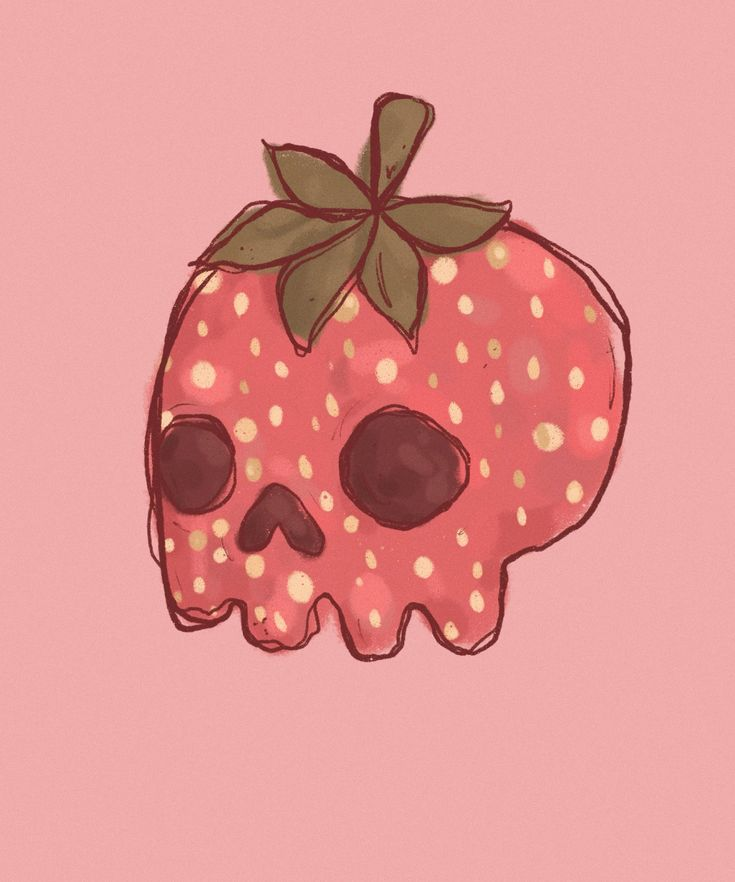
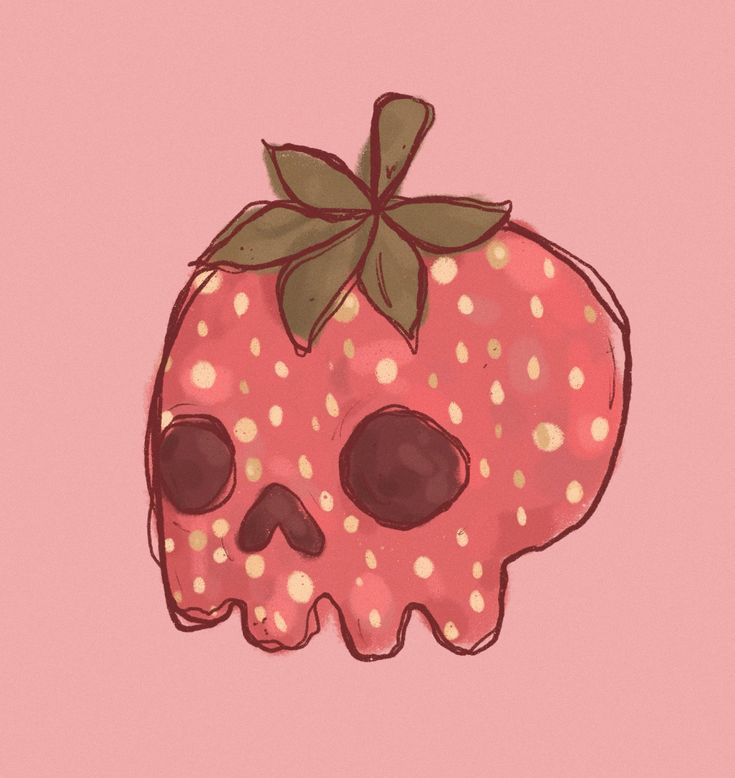
home page: main intro section + main links section

Changed region(s): [[0.1796, 0.0925, 0.868, 0.8638]]

diff --git a/style.css b/style.css
@@ -50,3 +50,72 @@ nav .nav-list a.active {
     padding: 0.5rem 1.5rem;
     border-radius: 0.5rem;
 }
+
+
+main {
+    width: 65%;
+/*👉    background-color: cornflowerblue;👈*/
+    display: flex;
+    flex-direction: column;
+    align-items: center;
+}
+
+main #intro {
+    width: 100%;
+    display: flex;
+    align-items: center;
+    justify-content: space-evenly;
+}
+
+#intro .profile {
+    height: 20rem;
+    width: 20rem;
+    border-radius: 50%;
+    overflow: hidden;
+}
+
+#intro .profile img {
+    width: 100%;
+    height: 100%;
+}
+
+#intro .intro-text {
+    width: 60%;
+}
+
+#intro .intro-text h1 {
+    font-size: 4.5rem;
+}
+
+#intro .intro-text .name {
+    color: #ff8597;
+}
+
+#intro .intro-text p {
+    font-size: 2rem;
+    text-transform: uppercase;
+    letter-spacing: 4px;
+    /* color: #a3c3ff; */
+}
+
+#intro .intro-text .tech {
+    color: #84acf7;
+    font-weight: 600;
+}
+
+
+main #links {
+    width: 60%;
+    margin-top: 2rem;
+    background-color: #84acf7;
+    padding: 1rem 5rem;
+    border-radius: 2rem;
+}
+
+#links .link-list {
+    display: flex;
+    list-style-type: none;
+    justify-content: space-between;
+    text-transform: uppercase;
+    letter-spacing: 2px;
+}

diff --git a/index.html b/index.html
@@ -26,13 +26,13 @@
             </div>
 
             <div class="intro-text">
-                <h1>Hi! I'm Strawberry Skeleton!</h1>
-                <p>a tech enthusiast</p>
+                <h1>Hi! I'm <span class="name">Strawberry</span>Skeleton</span>!</h1>
+                <p>a <span class="tech">tech</span> enthusiast</p>
             </div>
         </section>
 
         <section id="links">
-            <ul>
+            <ul class="link-list">
                 <a href=""><li>Github</li></a>
                 <a href=""><li>LinkedIn</li></a>
                 <a href=""><li>Instagram</li></a>
